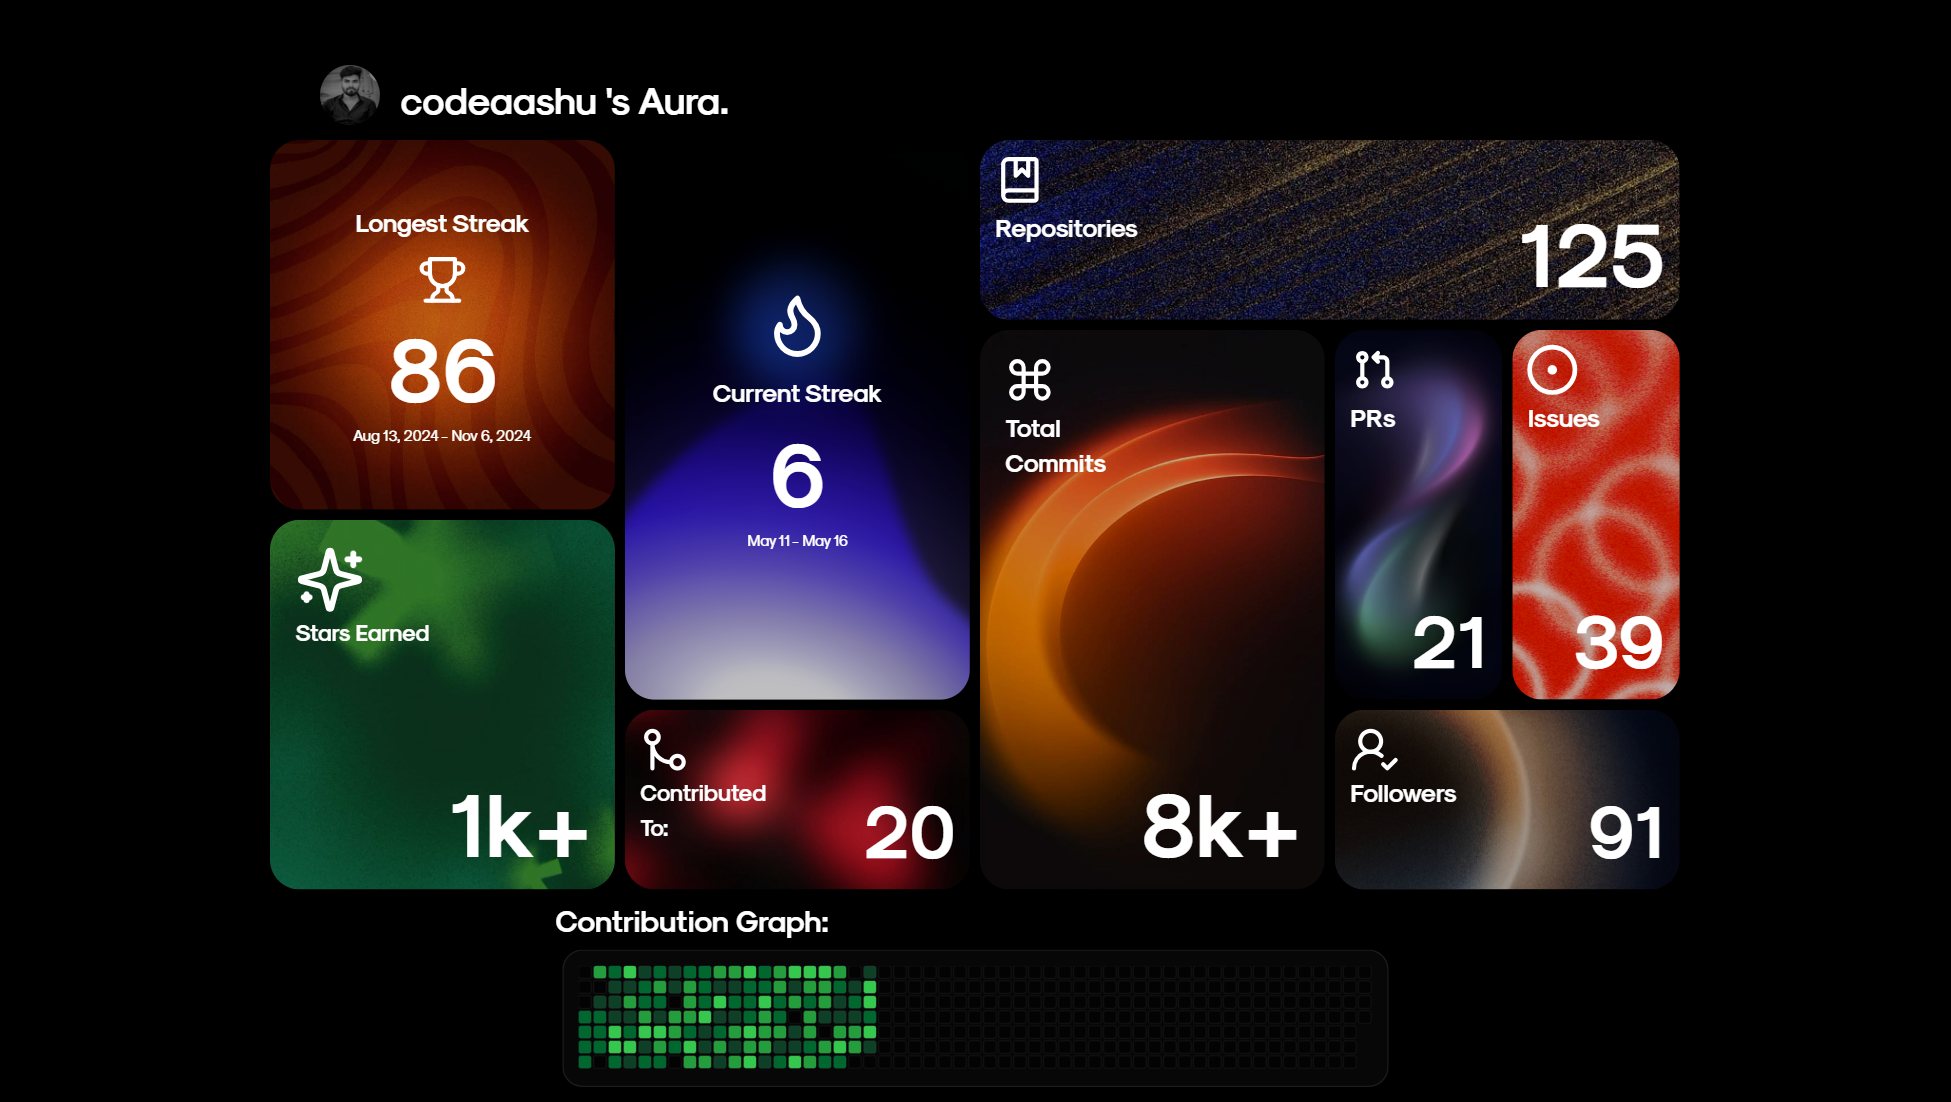
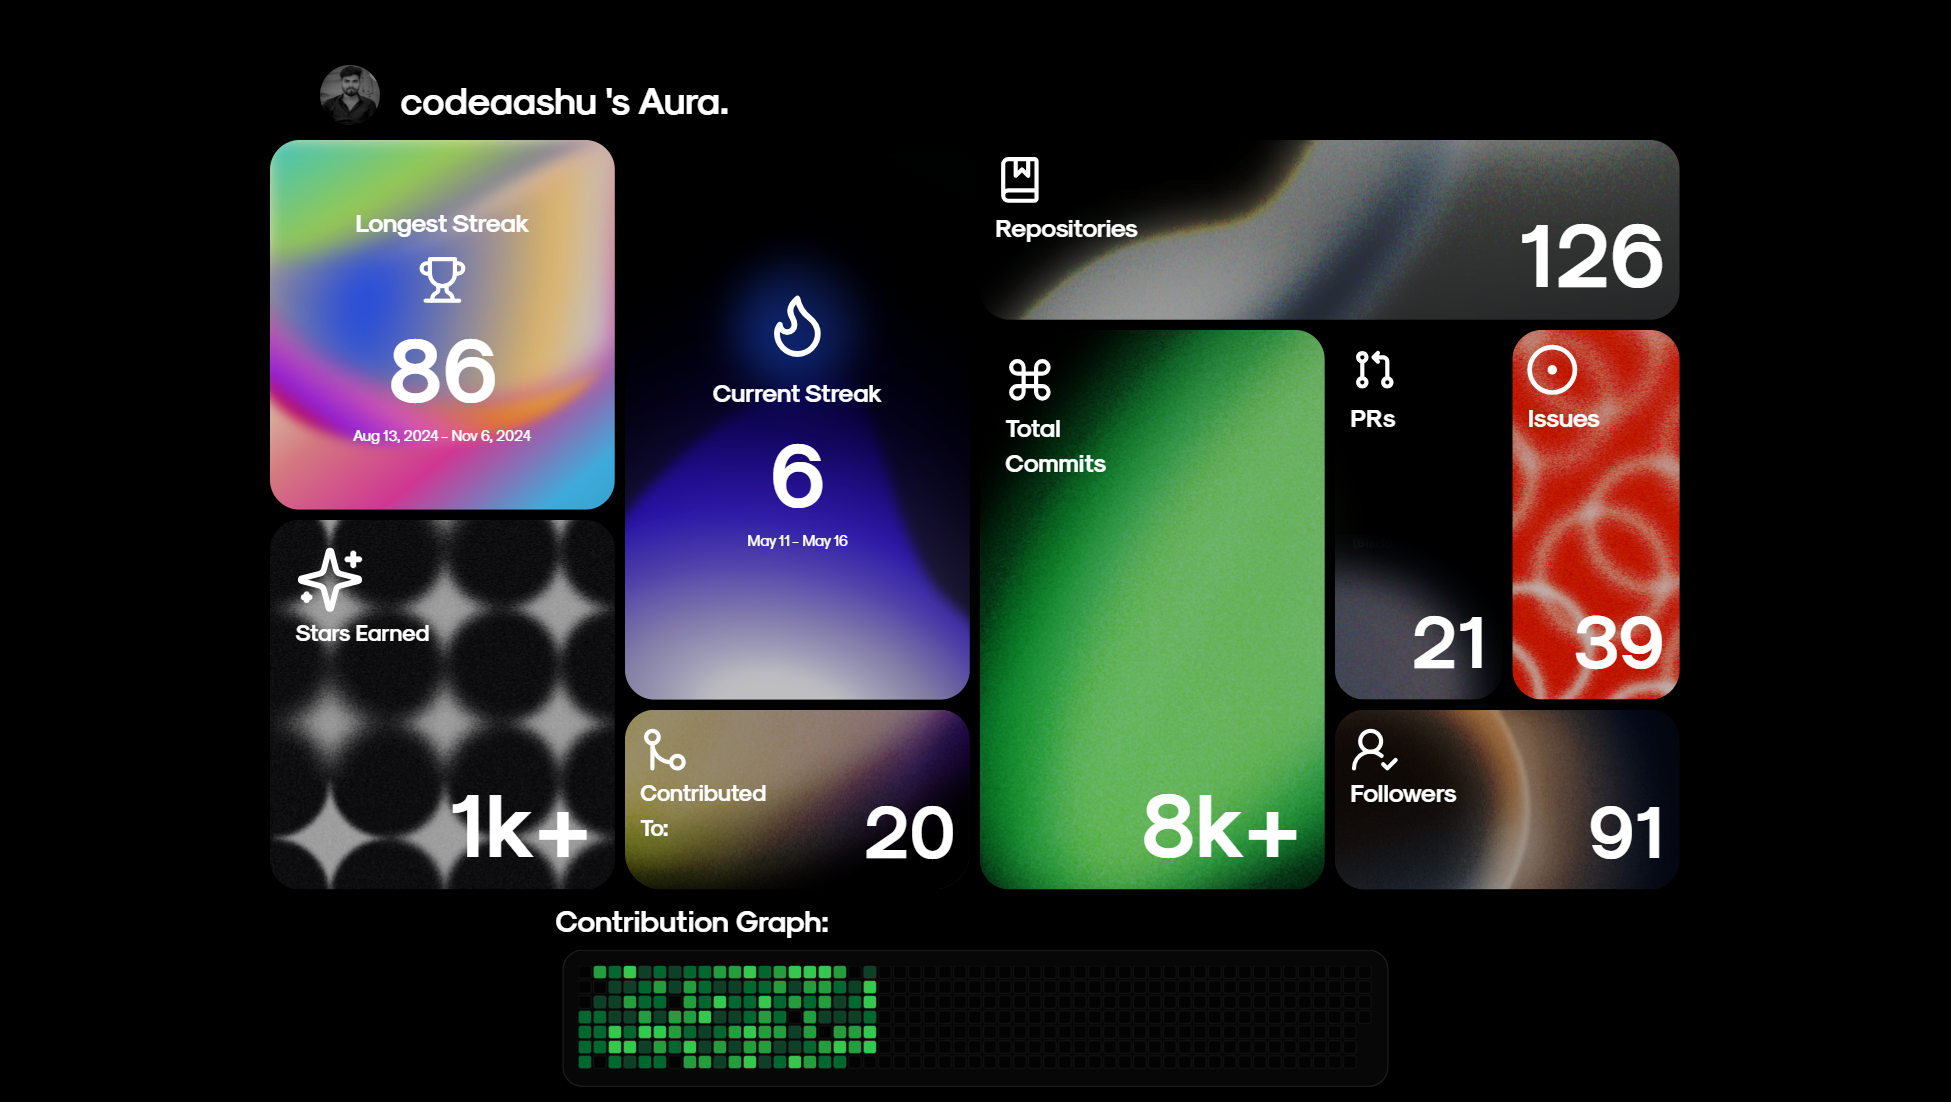
<🗿>

Changed region(s): [[0.123, 0.1234, 0.8611, 0.833]]

diff --git a/components/Github/Github Components/LongestStreak.tsx b/components/Github/Github Components/LongestStreak.tsx
@@ -18,7 +18,7 @@ const LongestStreak = ({
     <div className={`${classname} flex items-center justify-center flex-col gap-3 relative rounded-3xl overflow-hidden p-3 z-[90] bg-black/90 group cursor-pointer`}>
         {/* <HalfCircleGradient  /> */}
         <Image
-            src={`/assets/frame7.svg`}
+            src={`/assets/streak.jpeg`}
             alt=""
             width={500}
             height={500}
